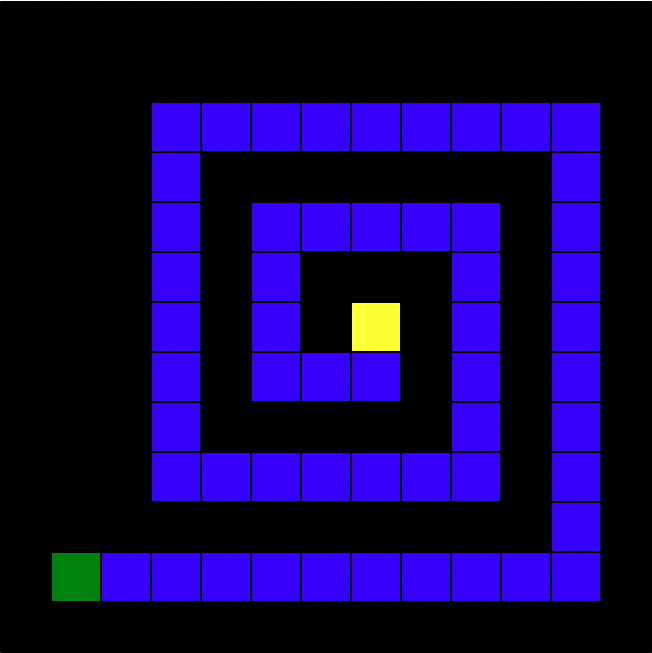
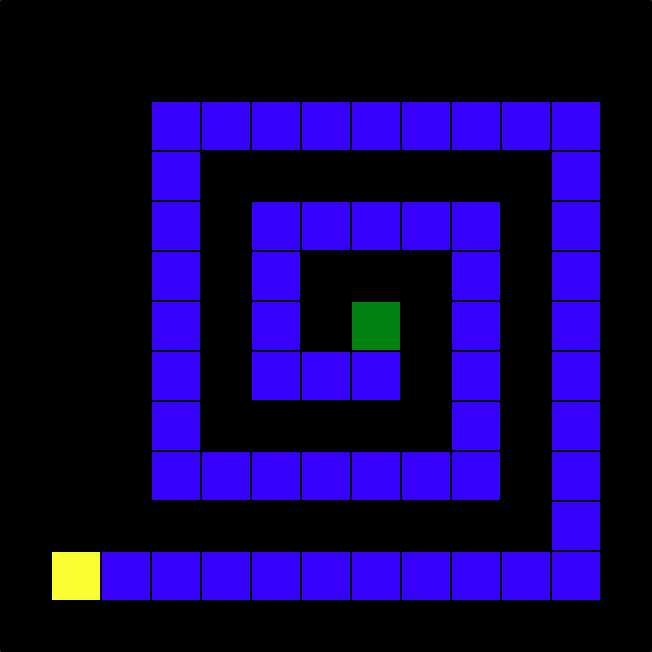
Make puzzle nine go inside out to make loop easier

Changed region(s): [[0.5215, 0.4601, 0.6135, 0.5521], [0.0613, 0.8282, 0.1534, 0.9202]]

diff --git a/src/turbozzle/puzzles/puzzle_8.py b/src/turbozzle/puzzles/puzzle_8.py
@@ -5,7 +5,7 @@ from turbozzle.utils.movement_wrapper import forward, init_puzzle, left, right
 def solve_puzzle_8() -> None:
 
     right(90)
-    for i in range(1, 10):
+    for i in range(1, 11):
         for _ in range(i):
             forward()
         right(90)
@@ -13,5 +13,3 @@ def solve_puzzle_8() -> None:
 
 init_puzzle("levels/puzzle_8.png", x=50, y=0, speed=0)
 solve_puzzle_8()
-
-input("Hit enter to exit")

diff --git a/src/turbozzle/puzzles/puzzle_9.py b/src/turbozzle/puzzles/puzzle_9.py
@@ -1,6 +1,4 @@
 #!/usr/bin/env python3
-import time
-
 from turbozzle.utils.movement_wrapper import forward, init_puzzle, left, on_red, right
 
 

diff --git a/src/turbozzle/creator/puzzle_creator.py b/src/turbozzle/creator/puzzle_creator.py
@@ -63,4 +63,4 @@ def draw_level(level: list[list[str]]) -> None:
     screen.mainloop()
 
 
-draw_level(LEVEL_0)
+draw_level(LEVEL_8)
